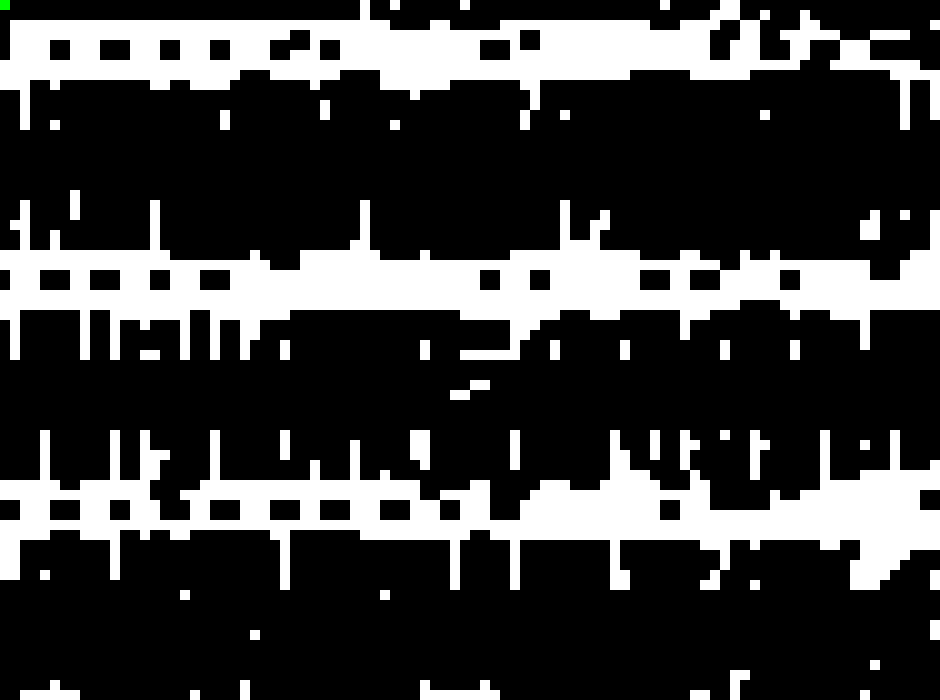
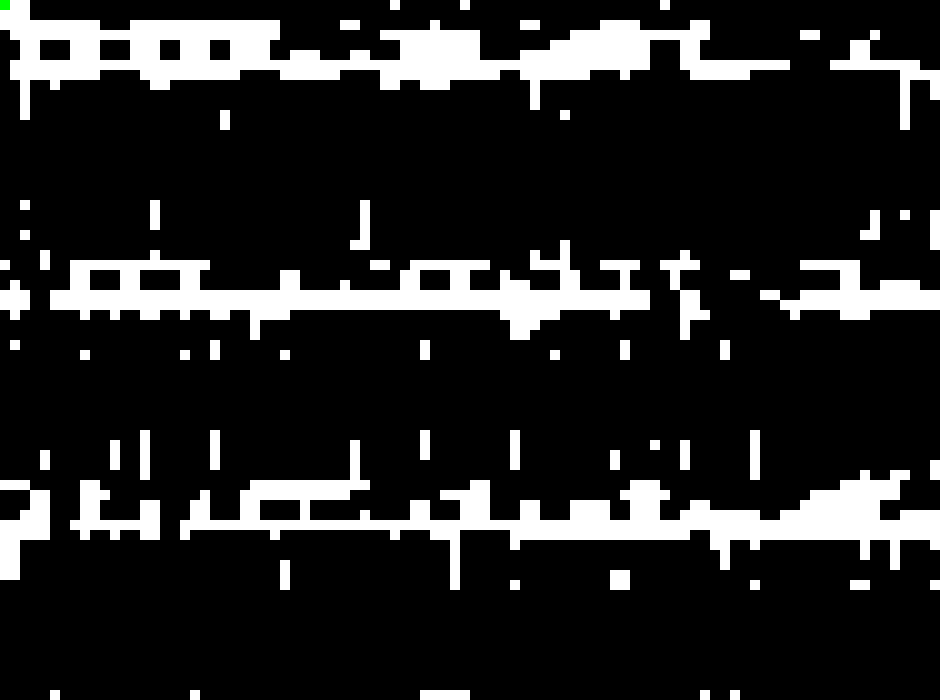
Fixed issue with entrance detection

diff --git a/src/Image_Processor.java b/src/Image_Processor.java
@@ -27,10 +27,10 @@ public class Image_Processor {
 	private static Node[][] grid;
 	private Node entrance;
 	private Pair<Integer,Integer> entranceCoord;
-	private static int entranceMinX;
-	private static int entranceMaxX;
-	private static int entranceMinY;
-	private static int entranceMaxY;
+	private int entranceMinX;
+	private int entranceMaxX;
+	private int entranceMinY;
+	private int entranceMaxY;
 
 	
 	public Image_Processor() {
@@ -50,9 +50,9 @@ public class Image_Processor {
 			//BufferedImage downSampled = downSample(grey, 2); //This step has varying results
 			threshold(grey, 200, i);
 			BufferedImage edge =  edges(grey, 30, i);
-			BufferedImage filtered = medianFilter(edge, i);
+//			BufferedImage filtered = medianFilter(edge, i);
 //			downSample(filtered, 2, i);
-			grid = processor.createNodes(filtered, 5, processor.entranceCoord.getKey(), processor.entranceCoord.getValue(), 10, 0.005);
+			grid = processor.createNodes(edge, 5, processor.entranceCoord.getKey(), processor.entranceCoord.getValue(), 10, 0.005);
 			
 		    BufferedImage visual = visualizeGrid(grid, 10);
 		    File outputfile = new File("output/grid_result_" + i + ".png");
@@ -342,7 +342,6 @@ public class Image_Processor {
 		
 		int entranceGridX = Math.round((float) entranceX/scale);
 		int entranceGridY = Math.round((float) entranceY/scale);
-		grid[entranceGridY][entranceGridX] = new Node(entranceGridX, entranceGridY,Node.NodeType.ENTRANCE,false);
 		entrance = grid[entranceGridY][entranceGridX];
 		for(int y = 0; y < height/scale; y++) {
 			for(int x = 0; x < width/scale; x++) {
@@ -351,10 +350,10 @@ public class Image_Processor {
 	            int startY = y * scale;
 				if (startX >= (entranceMinX - buffer) && startX <= (entranceMaxX + buffer) &&
 		                startY >= (entranceMinY - buffer) && startY <= (entranceMaxY + buffer)) {
-		                grid[y][x] = new Node(x, y, Node.NodeType.ENTRANCE, false);
+		                grid[y][x] = new Node(x, y, Node.NodeType.ROAD, false);
 		                continue;
 		            }
-				
+				grid[entranceGridY][entranceGridX] = new Node(entranceGridY, entranceGridX, Node.NodeType.ENTRANCE,false);
 				for(int by = 0; by < blockSize; by++) {
 					for(int bx = 0; bx < blockSize; bx++) {
 						int pixelX = x * scale + bx;
